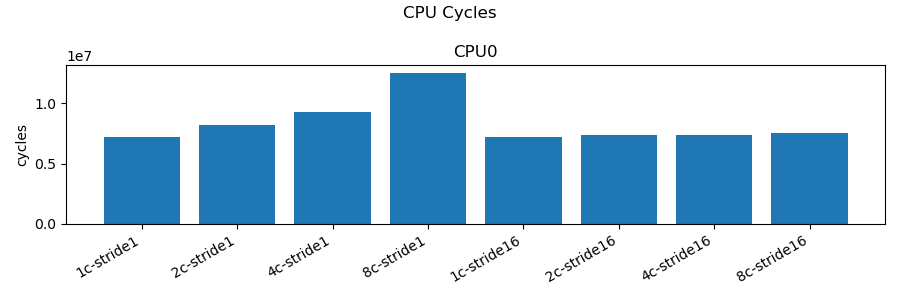
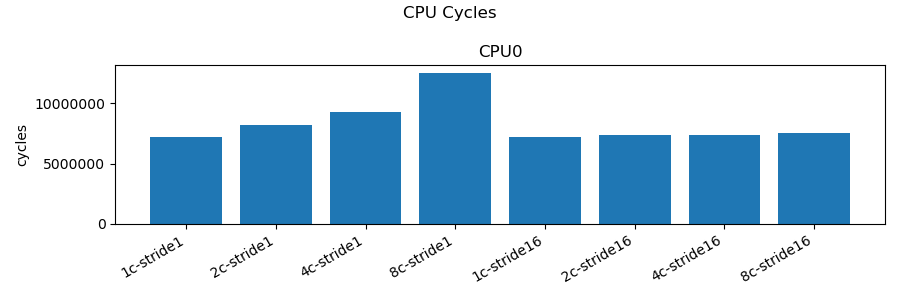
misc: suppress scientific notiation on linear y axes

diff --git a/scrape-stats.py b/scrape-stats.py
@@ -225,13 +225,18 @@ def make_plot(plot, outdir):
         #print(f'sp_pos is {sp_pos}')
         ax = plt.subplot(sp_pos, title=sp['title'])
         plt.bar(sp['names'], sp['values'])
+        logscale=False
         if 'y-scale' in sp:
+            logscale = True if sp['y-scale'] == 'log' else False
             ax.set_yscale(sp['y-scale'])
         if 'x-scale' in sp:
             ax.set_xscale(sp['x-scale'])
         if 'y-label' in sp:
             plt.ylabel(sp['y-label'])
+        #ax.ticklabel_format(style='plain')
+        if not logscale: ax.get_yaxis().get_major_formatter().set_scientific(False)
         plt.setp(ax.get_xticklabels(), rotation=30, horizontalalignment='right')
+        
         col_idx=col_idx+1
     
     plt.suptitle(plot['title'])
